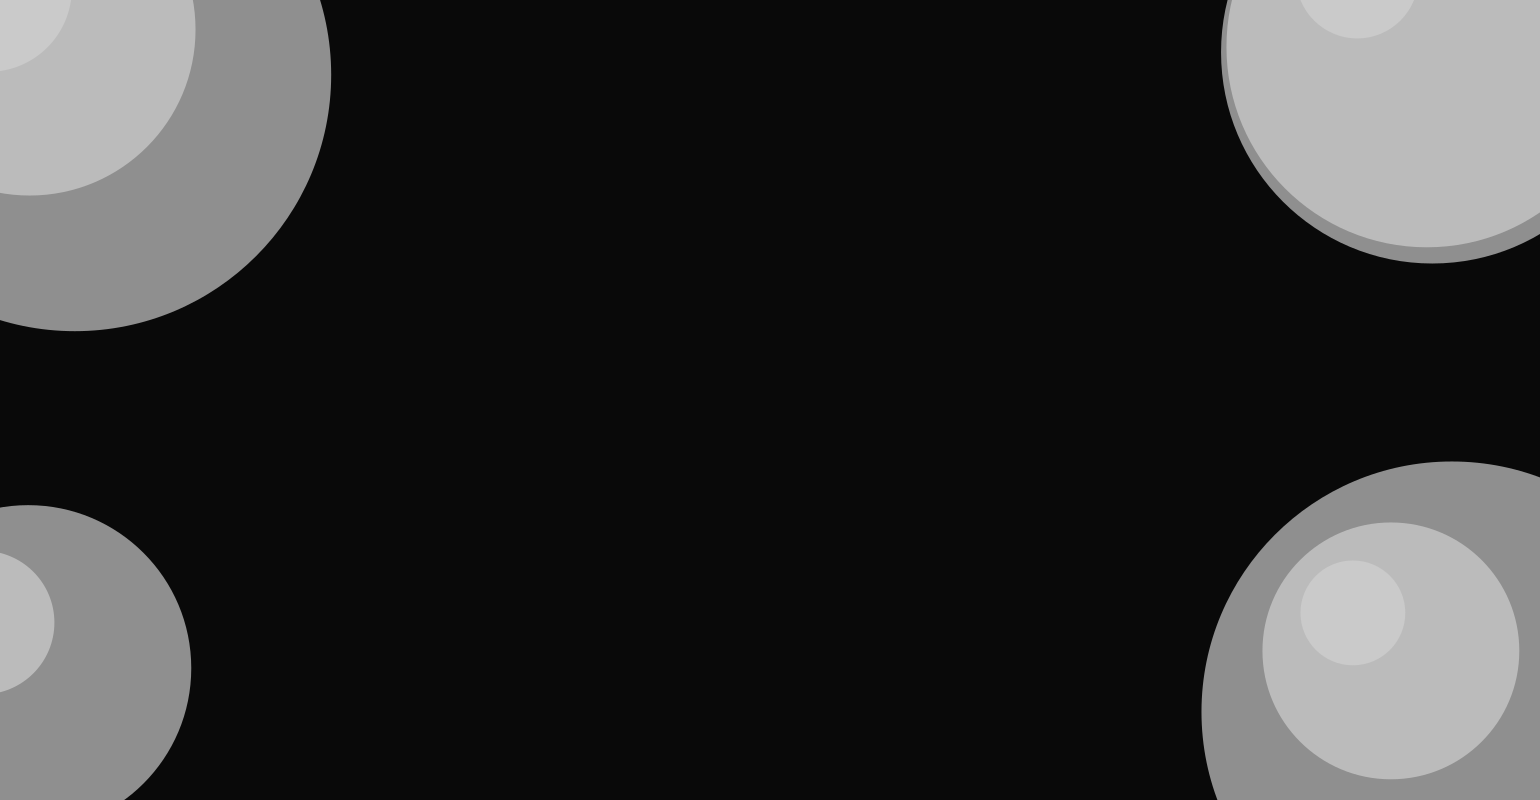
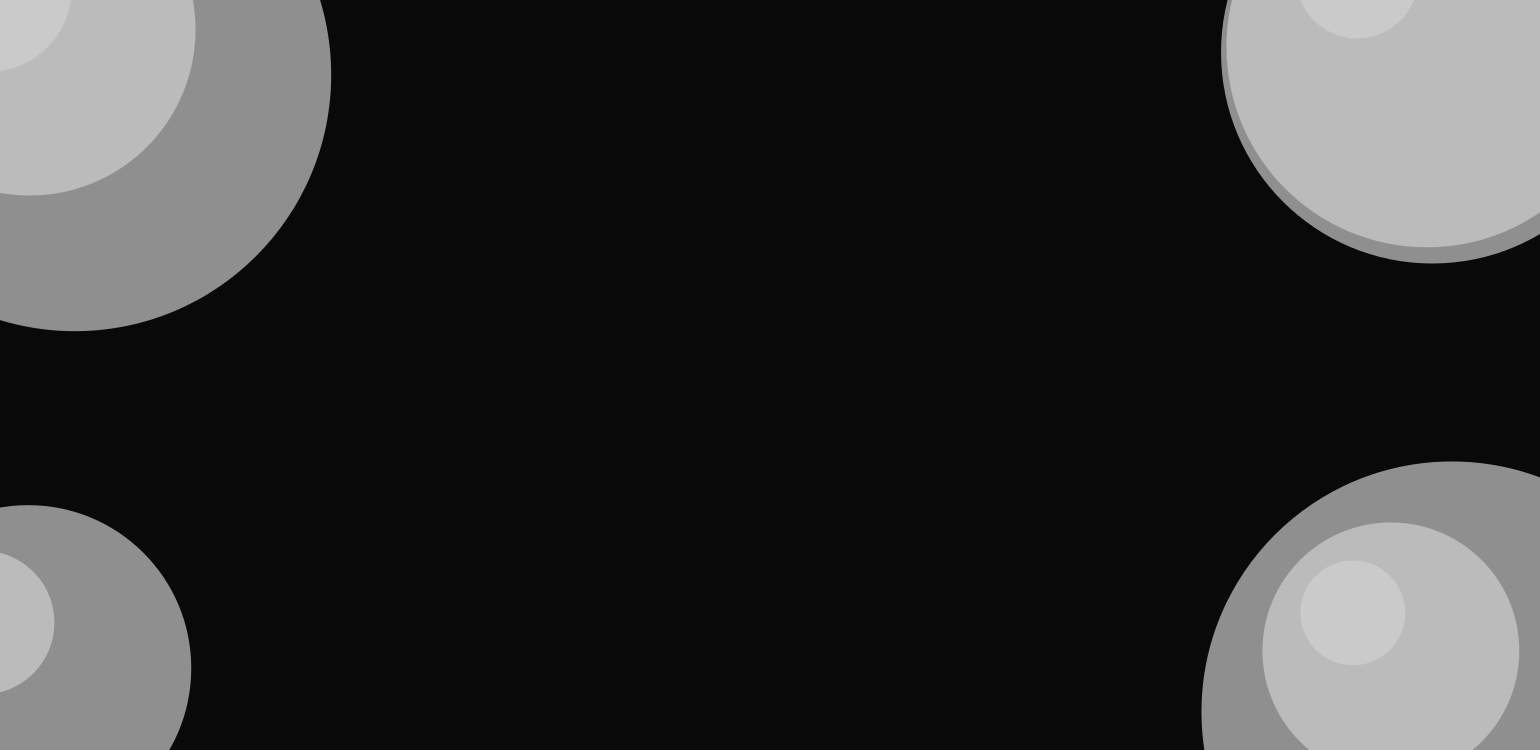
made a little responsive

diff --git a/styles/index.css b/styles/index.css
@@ -24,15 +24,17 @@
 
     .home-page {
         height: 100vh;
+        position: relative;
     }
 
     .img1 {
         height: 80vh;
         position: absolute;
-        left: 130vh;
+        /* left: 65vw; */
+        right: 4.5vw;
         top: 10vh;
         bottom: 10vh;
-        border: solid 7px;
+        border: solid 1vh;
         border-radius: 20px;
         border-color: white;
     }
@@ -56,6 +58,32 @@
         position: relative;
     }
 
+    @media screen and (max-aspect-ratio:16/8.75) {
+        .img1 {
+            display: none;
+        }
+
+        h1 {
+            position: absolute;
+            left: 0;
+            right: 0;
+            top: 23vh;
+            text-align: center;
+        }
+
+        .navbar {
+            justify-content: center;
+            position: absolute;
+            left: 0;
+            right: 0;
+            top: 70vh;
+        }
+
+        .nav-links {
+            margin-left: 5vw;
+            margin-right: 5vw;
+        }
+    }
 
     .nav-links::after {
         content: '';

diff --git a/index.html b/index.html
@@ -19,6 +19,7 @@
         background: fixed;
         background-image: url('./src/background-black.png');
         background-repeat: no-repeat;
+        background-size: cover;
     }
 
     .fade-image-1 {
